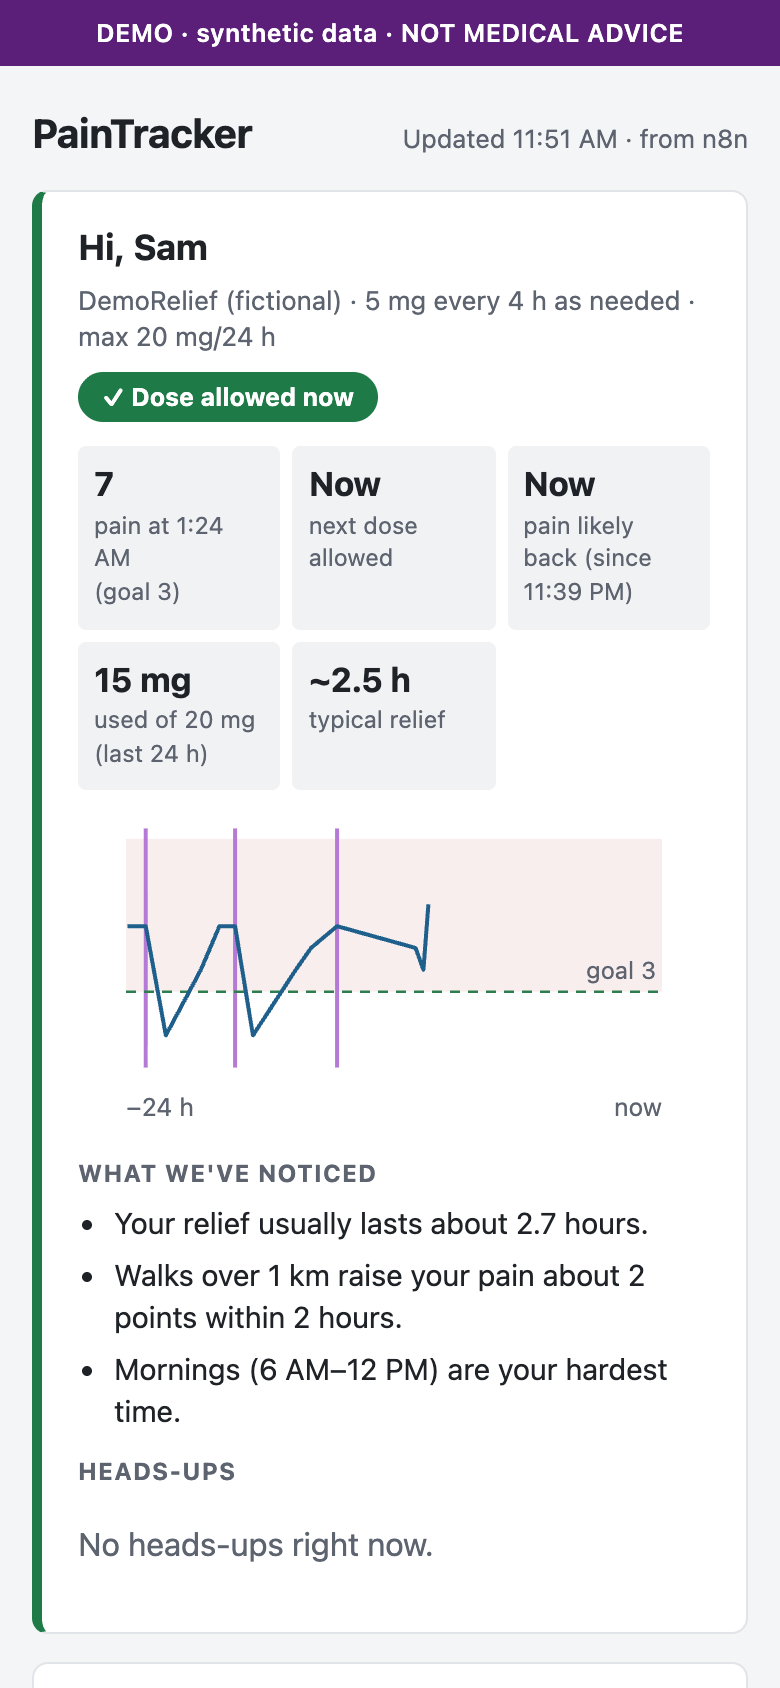
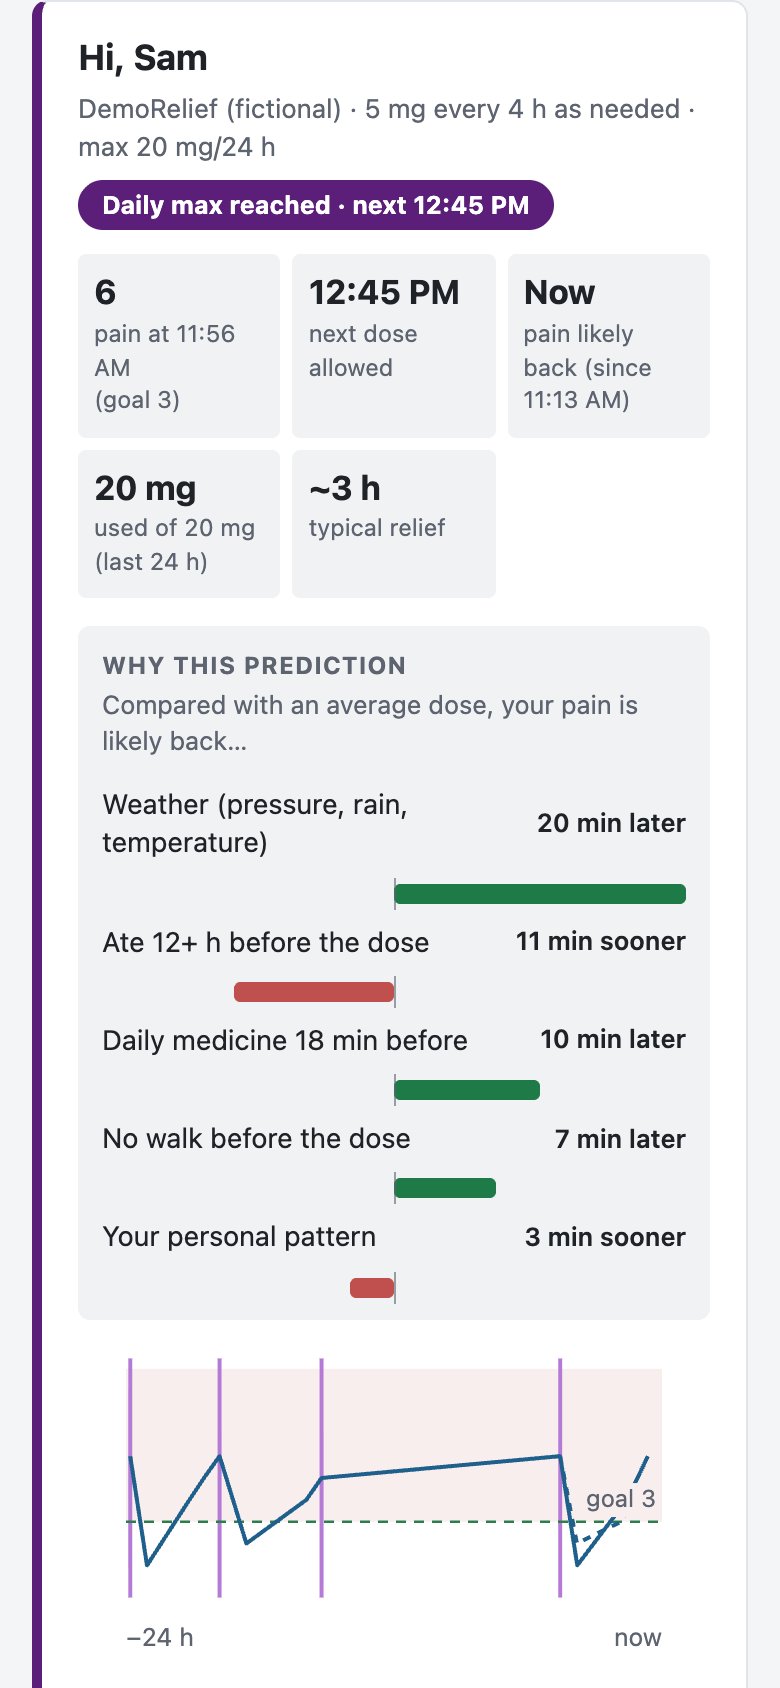
README: Round 2 features, retrained model numbers, shorter n8n setup
- Features: My medication, forecast line, demo clock
- Workflows list includes R3 demo clock, R4 prescription, Setup
- Model results updated to the retrained model (45 / 38 / 36 min)
- n8n setup section points to n8n/ and docs/N8N.md
- Dashboard screenshot retaken with today's data

diff --git a/README.md b/README.md
@@ -26,13 +26,15 @@ Pain is individual and changes hour to hour. Prescriptions for "as needed" pain 
 - 📝 **Quick logging:** pain score (0–10), "Took my dose" (with a confirm step), meals, walks, and physio appointments
 - 🚶 **Automatic walk tracking:** while the app is open, walks are detected on the phone and logged as distance + minutes
 - ⏱ **Prescription-aware status:** when your next dose is allowed, mg used of your 24 h maximum, and a clear "Daily max reached" state
-- 🔮 **Personal prediction:** "Your pain is likely back around 3:00 PM"
+- 💊 **My medication:** enter your prescription from the label (dose, hours between doses, daily max, pain goal); n8n validates it and applies the new limits right away
+- 🔮 **Personal prediction:** "Your pain is likely back around 3:00 PM", with a dashed **forecast line** on the chart showing expected pain after your last dose
 - 🩺 **Plan around physio:** add an appointment and the prediction updates right away (physio soon after a dose shortens relief)
 - ❓ **Why this prediction:** shows what moved it, e.g. *Evening: 48 min sooner · Your personal pattern: 14 min later*
 - 💡 **Your patterns:** e.g. "Walks over 1 km raise your pain about 2 points within 2 hours"
 - 🔔 **Heads-ups in the app:** pain likely back soon, daily max reached, physio coming up
 - 📈 **Live updates:** after every log, the dashboard refreshes and highlights what changed (new chart point, updated prediction, new heads-ups)
 - 🧠 **Learns from you:** e.g. "Learned from 71 of your doses. Your pain returns about 14 min later than average."
+- 🕒 **Demo clock (for demos only):** skip ahead +30 min / +1 h to show learning without waiting hours; always labelled "Demo time" while active
 
 PainTracker **never suggests anything outside your prescription**. Predictions only change *when* you get a heads-up. n8n checks the dose interval and 24 h maximum on every dose and warns if a dose is too early.
 
@@ -40,17 +42,20 @@ PainTracker **never suggests anything outside your prescription**. Predictions o
 
 ```
 React web app (PWA) ──► n8n webhooks ──► rules · patterns · prediction · learning · storage
-        ▲                POST /log                       │
+        ▲                POST /log, /prescription        │
         │                GET /dashboard                  │
         └──────────── reply + dashboard JSON ◄───────────┘
 ```
 
 - **App (`app/`):** React + Vite, installable as a PWA, deployed on Vercel. It only displays data and collects input; there is no business logic in the app. All calls go through `app/src/api.js`.
-- **n8n (`n8n/`):** all the logic, in three workflows on n8n Cloud:
+- **n8n (`n8n/`):** all the logic, in workflows on n8n Cloud:
   - **B3 · Check rules & predict**: prescription rules (interval, 24 h max), patterns, and the model's prediction
   - **B4 · POST /log**: validates and saves pain, dose, meal, walk and physio entries; adds current weather (Open-Meteo); runs the rules and replies with a message and any warning; **learns** from each completed dose
-  - **B6 · GET /dashboard**: everything the app's dashboard shows
-  - Storage: n8n Data Tables (`prescription`, `doses`, `pain_log`, `meals`, `walks`, `schedule`, `patient_model`, `predictions`)
+  - **B6 · GET /dashboard**: everything the app's dashboard shows, including the forecast, the "why" factors and upcoming physio
+  - **R4 · POST /prescription**: validates and saves the patient's medication limits
+  - **R3 · POST /demo-clock**: shifts "now" for demos (labelled in the app)
+  - **Setup**: creates the data tables and loads the demo patient
+  - Storage: n8n Data Tables (`prescription`, `doses`, `pain_log`, `meals`, `walks`, `schedule`, `patient_model`, `predictions`, `demo_clock`)
 - **Model (`ml/`):** a personalized linear regression (Ridge, scikit-learn) that predicts *hours until pain rises above your goal after a dose*. A per-patient offset is updated in n8n after every dose (`offset = 0.7 × offset + 0.3 × error`), so predictions adapt to each patient. Details: [`docs/MODEL.md`](docs/MODEL.md).
 - **Data (`data/`):** synthetic dataset generator (30 fictional patients × 21 days).
 
@@ -58,9 +63,9 @@ React web app (PWA) ──► n8n webhooks ──► rules · patterns · predic
 
 | Model | Average error |
 |---|---|
-| Patient's own median (simple baseline) | 44 min |
+| Patient's own median (simple baseline) | 45 min |
 | Linear, same for everyone | 38 min |
-| **Linear + personal offset (PainTracker)** | **35 min** |
+| **Linear + personal offset (PainTracker)** | **36 min** |
 
 Biggest effects it found: evenings, physio soon after a dose, walking in the previous 3 h, pain level at the dose, and rain.
 
@@ -89,10 +94,7 @@ npm run dev               # http://localhost:5173
 Without `VITE_N8N_URL`, the app runs on sample data from [`docs/API.md`](docs/API.md) and says so in the header.
 
 ### Set up the n8n side
-Full steps in [`docs/N8N.md`](docs/N8N.md). In short, on n8n Cloud:
-1. Import `n8n/PainPal-Setup.json` (**⋯ → Import from URL**) and run it: it creates all data tables and loads the demo patient's history.
-2. Import `PainPal-B3-check-rules-and-predict.json`, `PainPal-B4-log.json` and `PainPal-B6-dashboard.json`, then switch B4 and B6 to **Active**.
-3. In each webhook, add the app's address under **Allowed Origins (CORS)**.
+All workflows are exported in [`n8n/`](n8n/). Import them into n8n Cloud (**⋯ → Import from URL**), run **Setup** once, and activate the webhook workflows. Full steps in [`docs/N8N.md`](docs/N8N.md).
 
 ### Regenerate data and retrain
 ```bash
